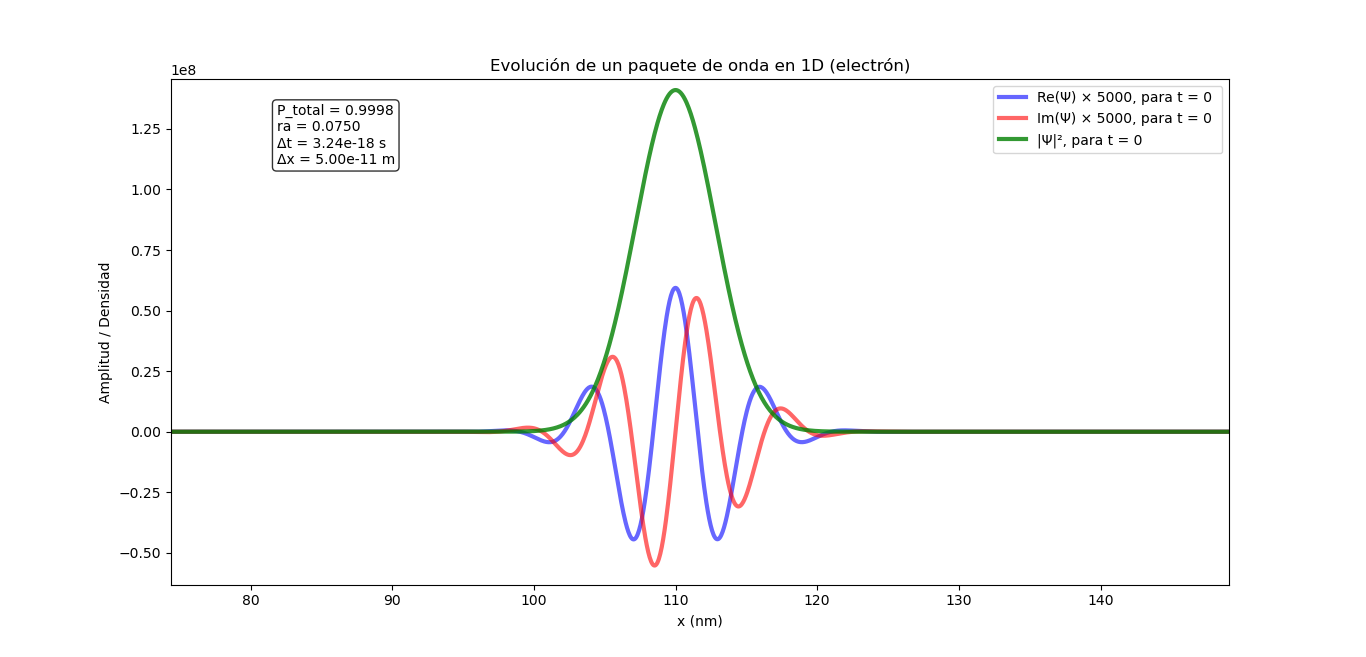
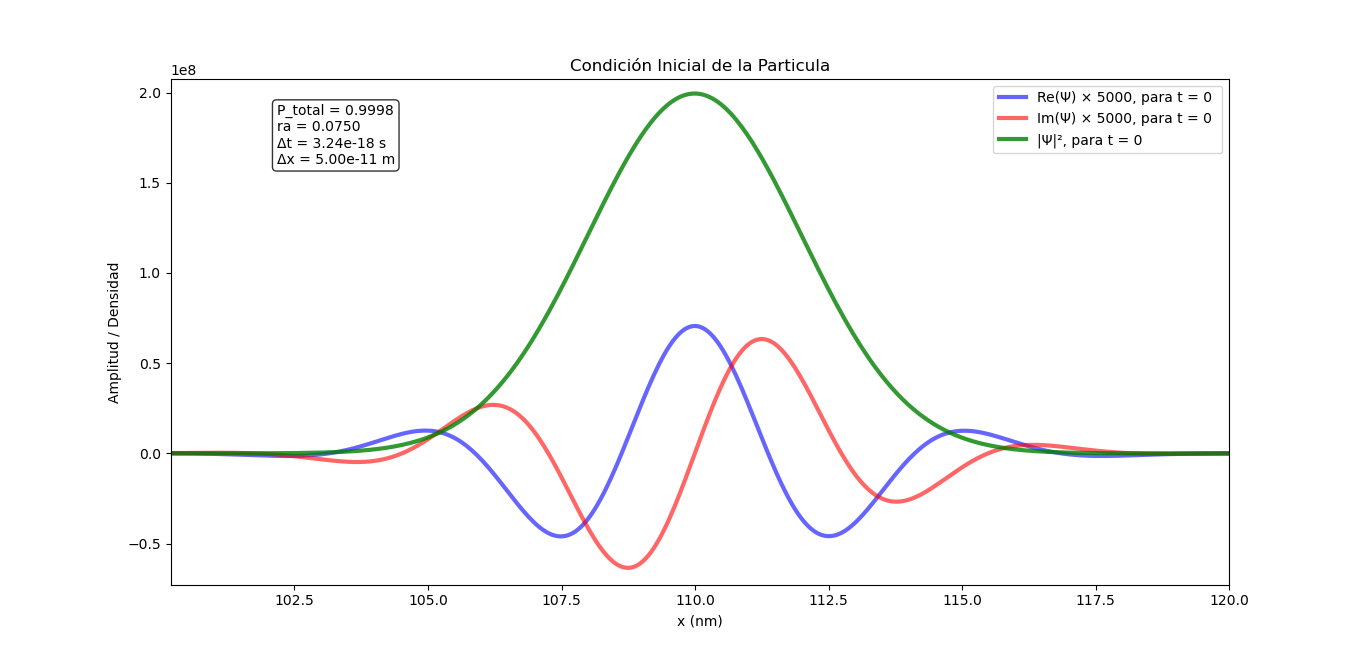
Particula libre avanza en el tiempo pero rebota

diff --git a/script_tp1.py b/script_tp1.py
@@ -1,0 +1,200 @@
+import numpy as np
+import matplotlib.pyplot as plt
+
+# --- Constantes físicas ---
+hbar = 1.054571817e-34   # J*s
+m = 9.10938356e-31       # kg
+eV = 1.602176634e-19     # J
+h = 6.62607015e-34       # J*s (constante de Planck)
+
+# --- Parámetros espaciales ---
+Lx = 240e-9   # longitud del dominio [m]
+Nx = 1200    # número de puntos
+dx = 0.05e-9
+x = np.linspace(0, Lx, Nx)
+x_nm = x*1e9  # en nanómetros
+
+Nt = 180000
+dt_max = 0.15 * 2 * m * dx**2 / hbar
+dt = 0.5*dt_max
+
+
+# --- Potencial: escalón en x = 20 nm ---
+V = np.zeros(Nx)
+V[x_nm >= Lx/2 ] = 0.015*eV   # 0.015 eV
+
+# --- Condición inicial: paquete gaussiano ---
+x0 = 110e-9
+sigma = 4e-9
+
+# Energía cinética media inicial solicitada
+Ek0_eV = 0.05            # eV
+Ek0 = Ek0_eV * eV        # J
+
+
+ra = hbar * dt / (2*m*dx**2)
+
+if ra >= 0.15:
+    raise ValueError("Condición de estabilidad no cumplida: ra >= 0.15")
+
+
+
+p0 = np.sqrt(2 * m * Ek0)
+lambda0 = h/ p0
+k0 = 2 * np.pi / lambda0
+
+
+envelope = np.exp(-(x-x0)**2/(2*sigma**2))
+psi_real = envelope * np.cos(k0*(x-x0))
+psi_imag = envelope * np.sin(k0*(x-x0))
+
+# Normalización inicial
+norm = np.sqrt(np.trapz(psi_real**2 + psi_imag**2, x))
+psi_real /= norm
+psi_imag /= norm
+
+# --- Potencial (libre en este caso) ---
+V = np.zeros_like(x)
+
+# --- Snapshots ---
+psi_sqr_snapshots = []
+times = []
+
+# --- Evolución temporal ---
+for n in range(Nt):
+
+    # Paso 1: actualizar parte real
+    lap_imag = (np.roll(psi_imag, -1) - 2*psi_imag + np.roll(psi_imag, 1)) / dx**2
+    psi_real_new = psi_real - (hbar*dt/(2*m)) * lap_imag + (dt/hbar)*V*psi_imag
+
+    # Paso 2: actualizar parte imaginaria
+    lap_real = (np.roll(psi_real_new, -1) - 2*psi_real_new + np.roll(psi_real_new, 1)) / dx**2
+    psi_imag_new = psi_imag + (hbar*dt/(2*m)) * lap_real - (dt/hbar)*V*psi_real_new
+
+    # Actualizar variables
+    psi_real, psi_imag = psi_real_new, psi_imag_new
+
+    # Calcular densidad de probabilidad
+    prob_density = psi_real**2 + psi_imag**2
+
+    # Guardar snapshots cada cierto tiempo
+    if n % 500 == 0:
+        psi_sqr_snapshots.append(prob_density.copy())
+        times.append(n*dt*1e15)  # en femtosegundos
+        P_total = np.trapz(prob_density, x)
+        print(f"Paso {n}, Probabilidad total: {P_total:.6f}")
+
+
+
+# --- Cálculo de valores esperados (en el último estado) ---
+
+# función de onda compleja Ψ = Re + i Im
+psi = psi_real + 1j * psi_imag
+psi_conj = np.conjugate(psi)
+
+# 1) Valor esperado de la posición <x>
+x_mean = np.sum((np.abs(psi)**2) * x) * dx
+
+# 2) Valor esperado del momento <p>
+#   Usamos diferencias centrales: (ψ[n+1] - ψ[n-1]) / (2dx)
+grad_psi = (np.roll(psi, -1) - np.roll(psi, 1)) / (2*dx)
+p_mean = np.sum(psi_conj * (-1j * hbar) * grad_psi) * dx
+
+# 3) Valor esperado de energía cinética <Ek>
+lap_psi = (np.roll(psi, -1) - 2*psi + np.roll(psi, 1)) / dx**2
+Ek_mean = np.sum(psi_conj * (- (hbar**2) / (2*m)) * lap_psi) * dx
+Ek_mean = np.real(Ek_mean)  # debe ser real
+
+# 4) Valor esperado de energía potencial <Ep>
+Ep_mean = np.sum(psi_conj * V * psi) * dx
+Ep_mean = np.real(Ep_mean)
+
+# 5) Energía total <E>
+E_total = Ek_mean + Ep_mean
+
+print("\n--- Valores esperados (último estado) ---")
+print(f"<x>   = {x_mean:.3e} m")
+print(f"<p>   = {p_mean:.3e} kg·m/s")
+print(f"<Ek>  = {Ek_mean/eV:.3f} eV")
+print(f"<Ep>  = {Ep_mean/eV:.3f} eV")
+print(f"<E>   = {E_total/eV:.3f} eV")
+
+
+
+# --- Graficar snapshots ---
+for psi_sqr, t in zip(psi_sqr_snapshots, times):
+    plt.plot(x*1e9, psi_sqr, label=f"t = {t:.1f} fs",alpha = 0.9, linewidth = 3)
+
+textstr = (
+    f'P_total = {P_total:.4f}\n'
+    f'ra = {ra:.4f}\n'
+    f'Δt = {dt:.2e} s\n'
+    f'Δx = {dx:.2e} m\n'
+    f'\n--- Valores esperados (último estado) ---\n'
+    f'<x>   = {x_mean:.3e} m\n'
+    f'<p>   = {p_mean:.3e} kg·m/s\n'
+    f'<Ek>  = {Ek_mean/eV:.3f} eV\n'
+    f'<Ep>  = {Ep_mean/eV:.3f} eV\n'
+    f'<E>   = {E_total/eV:.3f} eV\n'
+
+)
+
+# Coordenadas relativas del cuadro (x, y) en fracción de la figura (0 a 1)
+plt.gca().text(
+    0.1, 0.95, textstr,
+    transform=plt.gca().transAxes,
+    fontsize=10,
+    verticalalignment='top',
+    bbox=dict(boxstyle='round', facecolor='white', alpha=0.8)
+)
+
+plt.xlabel("x (nm)")
+plt.ylabel("Densidad de probabilidad")
+plt.legend()
+plt.show()
+
+# # --- Evolución temporal ---
+# snapshot_times_fs = [0, 30, 80, 450]  # tiempos deseados en fs
+# psi_sqr_snapshots = []
+# times = []
+
+# for n in range(Nt):
+#     # Laplaciano
+#     lap_real = (np.roll(psi_real,-1) - 2*psi_real + np.roll(psi_real,1)) / dx**2
+#     lap_imag = (np.roll(psi_imag,-1) - 2*psi_imag + np.roll(psi_imag,1)) / dx**2
+
+#     # Ecuación de Schrödinger explícita
+#     psi_real_new = psi_real + dt*( -(hbar/(2*m))*lap_imag + (V/hbar)*psi_imag )
+#     psi_imag_new = psi_imag + dt*(  (hbar/(2*m))*lap_real  - (V/hbar)*psi_real )
+
+#     psi_real, psi_imag = psi_real_new, psi_imag_new
+
+#     # tiempo actual en fs
+#     t_fs = n * dt * 1e15
+
+#     # Guardar solo los snapshots más cercanos a los tiempos deseados
+#     for t_target in snapshot_times_fs:
+#         if len(times) < len(snapshot_times_fs) and abs(t_fs - t_target) < dt*1e15:
+#             psi_sqr = psi_real**2 + psi_imag**2
+#             psi_sqr_snapshots.append(psi_sqr.copy())
+#             times.append(t_fs)
+#             # Normalización opcional
+#             norm = np.sqrt(np.trapz(psi_real**2 + psi_imag**2, x))
+#             psi_real /= norm
+#             psi_imag /= norm
+#             break  # evita duplicados
+
+# # --- Gráfico ---
+# fig, ax1 = plt.subplots()
+# for i, psi_sqr in enumerate(psi_sqr_snapshots):
+#     ax1.plot(x_nm, psi_sqr, label=f"t = {times[i]:.1f} fs")
+
+# ax1.set_xlabel("x [nm]")
+# ax1.set_ylabel(r"$|\psi(x,t)|^2$")
+# ax1.legend()
+
+# # Potencial
+# ax2 = ax1.twinx()
+# ax2.set_ylabel("Potencial [eV]")
+# plt.title("Evolución Temporal Paquete de Ondas")
+# plt.show()
